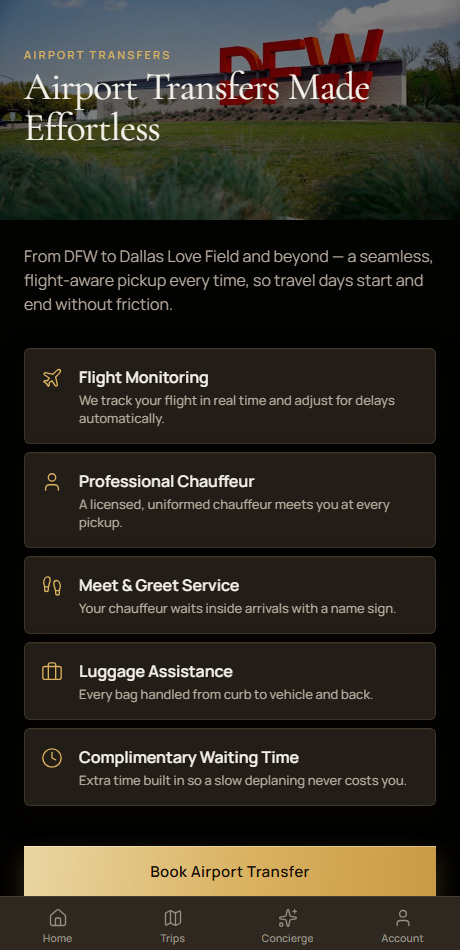
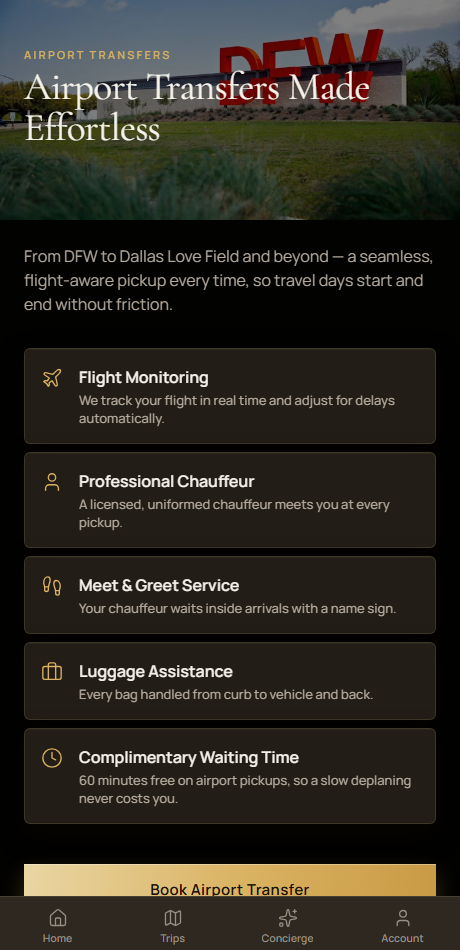
Complimentary wait time: the last blocked input, answered and rendering
30 minutes standard, 60 airport. Confirmed by the business, so the slot
built for it stops rendering nothing.

RESOLVED BY SERVICE TYPE, like the cancellation window beside it
  complimentaryWaitMinutesFor() / complimentaryWaitSentenceFor() mirror
  the cancellation resolver exactly. Verified on a real airport booking:
  the payment screen reads "Free cancellation until 6 hours before
  pickup" AND "60 minutes of complimentary wait time are included" —
  both correct for that service, neither generic.

  The wait line sits beside the price because it IS part of the price:
  it is the span in which waiting costs nothing.

airport.tsx — the claim COMPLETED, not removed
  It marketed "Complimentary Waiting Time" with no figure, and was
  deliberately left alone: a benefit stated without a number is not a
  fabricated number, and rewriting a client's marketing on our own
  judgement would have been the overreach. The number now exists, so the
  claim gets finished. It reads the figure from servicePolicy so the
  page cannot drift out of step with the booking flow, and it names
  AIRPORT PICKUPS explicitly — the window is double the standard one and
  nobody should carry 60 minutes away as a general promise.

DISPLAYABLE IS NOT ENFORCEABLE — recorded under C-4
  The app can STATE this policy because it is real. It can never BILL
  against it: there is no "arrived at pickup" status, so nothing marks
  when the clock starts, waiting_minutes and waiting_fare stay
[…]

Changed region(s): [[0.0304, 0.7937, 0.9435, 0.9463]]

diff --git a/src/config/servicePolicy.ts b/src/config/servicePolicy.ts
@@ -65,6 +65,28 @@ export function cancellationSentenceFor(serviceType: ServiceType | null): string
   return `Free cancellation until ${hours} ${hours === 1 ? 'hour' : 'hours'} before pickup.`;
 }
 
+/**
+ * The complimentary wait for the service actually being booked.
+ *
+ * Airport transfers get the longer window; everything else gets the standard
+ * one. Same shape as `freeCancellationHoursFor` — resolved per service rather
+ * than stated generically, because telling an airport customer "30 minutes"
+ * would be wrong by half.
+ */
+export function complimentaryWaitMinutesFor(serviceType: ServiceType | null): number | null {
+  if (serviceType === 'airport') return servicePolicy.complimentaryWaitMinutes.airport;
+  // 'custom' is quote-routed and has no published window of its own.
+  if (serviceType === null || serviceType === 'custom') return null;
+  return servicePolicy.complimentaryWaitMinutes.standard;
+}
+
+/** "60 minutes of complimentary wait time are included." Null renders nothing. */
+export function complimentaryWaitSentenceFor(serviceType: ServiceType | null): string | null {
+  const minutes = complimentaryWaitMinutesFor(serviceType);
+  if (minutes === null) return null;
+  return `${minutes} minutes of complimentary wait time are included.`;
+}
+
 export const servicePolicy = {
   freeCancellationHours,
 
@@ -83,29 +105,27 @@ export const servicePolicy = {
   dispatchPhone: '+1 (888) 615-4065' as string | null,
 
   /**
-   * STILL BLOCKED. Complimentary wait time included in the fare, in minutes.
+   * Complimentary wait time included in the fare, in minutes.
    *
-   * Searched the website source: it is not on the fleet page, the rates page,
-   * the cancellation policy or the FAQ. The FAQ covers flight monitoring and
-   * meet-and-greet but states no wait-time figure, and nothing else on the site
-   * mentions one.
+   * Confirmed by the business. The airport figure is double the standard one
+   * for the obvious reason: a delayed bag or a slow immigration queue is not
+   * something a passenger controls, and a chauffeur service that starts
+   * charging at the carousel is not one.
    *
-   * So it stays null and its slots render nothing.
+   * ── This is DISPLAYABLE, not ENFORCEABLE ────────────────────────────────
+   * The app can now STATE the policy, because it is real. It cannot BILL
+   * against it, because nothing marks the moment the clock starts: there is no
+   * "arrived at pickup" status in the trip enum, so `bookings.waiting_minutes`
+   * and `waiting_fare` — which exist, from migration 0015 — can never be
+   * filled correctly.
    *
-   * NOTE — `app/(app)/airport.tsx` markets "Complimentary Waiting Time" without
-   * a figure. That copy is LEFT AS IS, deliberately: it is the company's own
-   * pre-existing marketing, and a benefit stated without a number is not a
-   * fabricated number. Rewriting a client's marketing claim on our own judgement
-   * would be the overreach, not the restraint.
-   *
-   * The right response is to ask, not edit. Two questions, both on the
-   * business-inputs list in BACKEND_FOLLOWUPS.md:
-   *   1. What IS the complimentary waiting time, per service type?
-   *   2. Does the airport page's existing claim match it?
+   * So the business has a waiting policy it cannot charge for. That is now the
+   * strongest argument for gap C-4 in BACKEND_FOLLOWUPS.md, and it is recorded
+   * there rather than left as an inconsistency for someone to trip over.
    */
   complimentaryWaitMinutes: {
-    standard: null as number | null,
-    airport: null as number | null,
+    standard: 30 as number | null,
+    airport: 60 as number | null,
   },
 
   /**

diff --git a/app/(app)/book/payment.tsx b/app/(app)/book/payment.tsx
@@ -17,7 +17,7 @@ import { formatCurrency, formatDateTime, formatServiceType } from '../../../src/
 import { isStripeConfigured } from '../../../src/lib/env';
 import { useStripeCheckout } from '../../../src/lib/useStripeCheckout';
 import { AuthGate } from '../../../src/components/AuthGate';
-import { cancellationSentenceFor } from '../../../src/config/servicePolicy';
+import { cancellationSentenceFor, complimentaryWaitSentenceFor } from '../../../src/config/servicePolicy';
 import { isRTL } from '../../../src/i18n/rtl';
 
 /**
@@ -46,10 +46,19 @@ import { isRTL } from '../../../src/i18n/rtl';
  * was checking for exactly this was comparing the client's preview against the
  * client's own recomputation.
  *
- * ── The cancellation line ───────────────────────────────────────────────────
- * Renders only when `servicePolicy.freeCancellationWindowHours` is set. It is
- * null — a blocked business input — so nothing renders there. A cancellation
- * promise printed above a pay button is a commitment the business has not made.
+ * ── The policy lines ────────────────────────────────────────────────────────
+ * Two of them now, both resolved per service type: the free-cancellation window
+ * and the complimentary wait. This comment used to say they rendered nothing
+ * because the figures were blocked business inputs — they are answered, and
+ * they render.
+ *
+ * The rule that produced that blank is unchanged and still the right one: a
+ * promise printed above a pay button is a commitment, so it appears only when
+ * the business has actually made it. What changed is that they have.
+ *
+ * The wait line belongs beside a price because it IS part of the price — it is
+ * the span in which waiting costs nothing. Note that the app can STATE it and
+ * cannot BILL against it; see `servicePolicy` and BACKEND_FOLLOWUPS.md C-4.
  */
 export default function PaymentStep() {
   const router = useRouter();
@@ -348,6 +357,21 @@ export default function PaymentStep() {
           {cancellationSentenceFor(draft.serviceType) ? (
             <AppText variant="captionSm" center style={styles.policy}>
               {cancellationSentenceFor(draft.serviceType)}
+            </AppText>
+          ) : null}
+          {/*
+            The complimentary wait, resolved by service — 60 minutes on an
+            airport transfer, 30 otherwise. This slot rendered nothing for the
+            whole project because the figure was a blocked business input; it
+            now has a confirmed answer and states it.
+
+            It belongs beside a price the customer is about to authorise
+            because it IS part of the price: it is the span in which waiting
+            costs nothing.
+          */}
+          {complimentaryWaitSentenceFor(draft.serviceType) ? (
+            <AppText variant="captionSm" center style={styles.policy}>
+              {complimentaryWaitSentenceFor(draft.serviceType)}
             </AppText>
           ) : null}
         </AuthGate>

diff --git a/app/(app)/airport.tsx b/app/(app)/airport.tsx
@@ -8,13 +8,35 @@ import { AppText } from '../../src/components/ui/Typography';
 import { FadeSlideIn } from '../../src/components/ui/FadeSlideIn';
 import { colors, spacing } from '../../src/theme/tokens';
 import { useBookingFormStore } from '../../src/store/bookingFormStore';
+import { servicePolicy } from '../../src/config/servicePolicy';
 
 const FEATURES = [
   { icon: Plane, title: 'Flight Monitoring', desc: 'We track your flight in real time and adjust for delays automatically.' },
   { icon: User, title: 'Professional Chauffeur', desc: 'A licensed, uniformed chauffeur meets you at every pickup.' },
   { icon: Footprints, title: 'Meet & Greet Service', desc: 'Your chauffeur waits inside arrivals with a name sign.' },
   { icon: Briefcase, title: 'Luggage Assistance', desc: 'Every bag handled from curb to vehicle and back.' },
-  { icon: Clock, title: 'Complimentary Waiting Time', desc: 'Extra time built in so a slow deplaning never costs you.' },
+  {
+    icon: Clock,
+    title: 'Complimentary Waiting Time',
+    /*
+     * THE FIGURE, read from the policy rather than typed.
+     *
+     * This said "Extra time built in so a slow deplaning never costs you" —
+     * the company's own marketing, carrying a benefit with no number. It was
+     * deliberately left alone while the figure was an unanswered business
+     * input, because a benefit stated without a number is not a fabricated
+     * number, and rewriting a client's marketing on our own judgement would
+     * have been the overreach.
+     *
+     * The business has now confirmed it, so the claim gets completed rather
+     * than removed. It reads from `servicePolicy` so the page cannot drift
+     * out of step with the payment and confirmation screens, and it names
+     * AIRPORT PICKUPS explicitly — the window is double the standard one, and
+     * a reader on this page should not carry 60 minutes away as a
+     * general promise.
+     */
+    desc: `${servicePolicy.complimentaryWaitMinutes.airport} minutes free on airport pickups, so a slow deplaning never costs you.`,
+  },
 ];
 
 export default function AirportScreen() {

diff --git a/app/(app)/book/confirmed.tsx b/app/(app)/book/confirmed.tsx
@@ -20,7 +20,7 @@ import { bookingsApi } from '../../../src/api/bookings';
 import type { Booking } from '../../../src/types/api';
 import { formatCurrency, formatDateTime } from '../../../src/lib/format';
 import { useMotion } from '../../../src/lib/useMotion';
-import { cancellationSentenceFor } from '../../../src/config/servicePolicy';
+import { cancellationSentenceFor, complimentaryWaitSentenceFor } from '../../../src/config/servicePolicy';
 
 /**
  * CONFIRMED — the emotional peak, and previously the least designed screen in
@@ -206,6 +206,11 @@ export default function ConfirmedStep() {
         {cancellationSentenceFor(draft.serviceType) ? (
           <AppText variant="captionSm" center style={styles.policy}>
             {cancellationSentenceFor(draft.serviceType)}
+          </AppText>
+        ) : null}
+        {complimentaryWaitSentenceFor(draft.serviceType) ? (
+          <AppText variant="captionSm" center style={styles.policy}>
+            {complimentaryWaitSentenceFor(draft.serviceType)}
           </AppText>
         ) : null}
 

diff --git a/BACKEND_FOLLOWUPS.md b/BACKEND_FOLLOWUPS.md
@@ -356,9 +356,29 @@ completed`. `driver_arriving` means *en route*. There is no state between
    `waiting_fare` exist (`0015_booking_pricing_extensions.sql`) and default to
    zero. Nothing can start the clock, because the clock starts when the car
    arrives. **These columns are currently unfillable.**
-3. **The complimentary-wait policy is unenforceable.** See the Business inputs
-   table below — even once LCT answers what the free wait period is, there is no
-   event to measure it from.
+3. **THE BUSINESS HAS A WAITING POLICY IT CANNOT BILL AGAINST.** This is now the
+   strongest argument for building C-4, and it changed while this document was
+   being written.
+
+   The complimentary wait is no longer an open question. It is confirmed
+   published policy — **30 minutes on standard pickups, 60 on airport** — and
+   the app states it on the payment screen, the confirmation screen and the
+   airport page, resolved per service type.
+
+   So the promise is on screen and the mechanism behind it does not exist. The
+   app can **display** the policy because it is real; it can never **enforce**
+   it, because nothing marks the moment the clock starts. Concretely:
+
+   - a chauffeur who waits 90 minutes at DFW has 30 chargeable minutes, and
+     there is no way to record that a single one of them happened;
+   - `waiting_minutes` and `waiting_fare` stay zero on every booking forever;
+   - a customer disputing a wait charge cannot be shown when the car arrived,
+     because nobody can say.
+
+   Until C-4 lands, every minute of paid waiting time in the business is either
+   uncharged or charged outside the system. That is a revenue argument, not an
+   engineering preference, and it is a stronger case than the accessibility one
+   above.
 
 *What would change.* Add `driver_arrived` to the `trip_status` enum between
 `driver_arriving` and `passenger_picked_up`, and the corresponding edge in
@@ -886,16 +906,27 @@ app until it is answered.
 
 | # | Question | Where it lands |
 |---|---|---|
-| B1 | **What is the complimentary waiting time**, per service type (standard vs airport)? | `servicePolicy.complimentaryWaitMinutes` — the destination sheet's airport note and the confirmation screen |
-| B2 | **Does the Airport page's existing claim match it?** That page markets "Complimentary Waiting Time" with no figure. The copy has been left exactly as written — it is LCT's own marketing, and a benefit stated without a number is not a fabricated number. But it should not stay unquantified once B1 is answered. | `app/(app)/airport.tsx` |
 | B3 | **Who owns the rating figure, and how often is it refreshed?** Home shows "4.93 from 55 reviews", read by hand from the Clienity reputation dashboard on 2026-08-22 and frozen in a constant with its source and read-date. It is a SNAPSHOT: there is no reviews endpoint and no integration, so it will silently go stale. Either re-read it before each release, or expose it from the backend and delete the constant. | `src/config/reputation.ts` → `src/components/home/HomeView.tsx` |
 | B4 | **How late is late?** The dispatcher board must surface the problem row, and nothing defines what one is. Same threshold for an airport pickup as for a dinner reservation? Measured from the scheduled time or from the chauffeur's ETA? At what point does it escalate to a call? Until this is answered the board computes it client-side with a five-minute grace the preview invented. See §7 D-2. | the board query, once §7 D-1 exists |
 | B5 | **Is meet-and-greet a service the customer selects, and does it cost anything?** The chauffeur cannot be told to walk into the terminal because no booking says so. This is a pricing and packaging question before it is a column. See §7 C-3. | `bookings.meet_and_greet`, the airport booking flow |
 | B6 | **Does the late-night surcharge apply by PICKUP time, or if any part of the journey falls inside the window?** A 04:45 pickup running to 05:30 is inside the window at the kerb and outside it at the airport. This is the only part of the surcharge question still open — the timezone half is answered and specified in §8, not a question. | `isLateNight()` in both `pricing.ts` and `pricingPreview.ts` |
 
-Resolved since the first list: the free-cancellation window (published and
-tiered — 12h sedans and SUVs, 6h airport, 48h hourly and events) and the
-dispatch phone (+1 888 615-4065). Both now render.
+**All three of the originally blocked inputs are now answered**, and every one
+of them renders:
+
+- the free-cancellation window — published and tiered: 12h sedans and SUVs,
+  6h airport, 48h hourly and events
+- the dispatch phone — +1 888 615-4065
+- the complimentary wait — **30 minutes standard, 60 minutes airport**
+
+The questions remaining below are ones this project raised later, from the role
+preview and the fare-parity work. They are open, not blocked: nothing is waiting
+on them to render.
+
+> **The wait time is DISPLAYABLE but not ENFORCEABLE.** The app states the
+> policy because it is real; it cannot bill against it, because nothing marks
+> when the clock starts. See C-4 — that pairing is now the strongest argument
+> for building it.
 
 ---
 

diff --git a/DESIGN_CHANGELOG.md b/DESIGN_CHANGELOG.md
@@ -155,6 +155,44 @@ bug**: reverting that fix turns the suite red on exactly that endpoint.
 `ScreenContainer` and `AnimatedRoutePreview`. **Outstanding:** ~25 files, listed
 by the lint rule's own inverse — anything not in `MIGRATED_OFF_THE_SHIM`.
 
+## Service policy — all three blocked inputs are answered
+
+`freeCancellationHours`, `dispatchPhone` and now `complimentaryWaitMinutes`
+(**30 standard, 60 airport**) are real published policy. Every slot built for
+them and left rendering nothing now renders.
+
+The rule that produced those blanks is unchanged and was the right one: a
+promise printed above a pay button is a commitment, so it appears only when the
+business has actually made it. What changed is that they have.
+
+- The payment and confirmation screens state both windows, **resolved by service
+  type** — 60 minutes on an airport transfer, 30 on a point-to-point. The wait
+  line sits beside the price because it *is* part of the price: it is the span
+  in which waiting costs nothing.
+- `airport.tsx` markets "Complimentary Waiting Time". That claim was
+  deliberately left unquantified while the figure was unknown — a benefit stated
+  without a number is not a fabricated number, and rewriting a client's
+  marketing on our own judgement would have been the overreach. The number now
+  exists, so the claim is **completed rather than removed**, reads the figure
+  from `servicePolicy` so the page cannot drift out of step with the booking
+  flow, and names *airport pickups* explicitly so nobody carries 60 minutes away
+  as a general promise.
+
+### Displayable is not enforceable
+
+The honest half, and it should not get lost in the good news.
+
+The app can **state** the waiting policy, because it is real. It can never
+**enforce** it, because `BACKEND_FOLLOWUPS.md` C-4 still stands: there is no
+"arrived at pickup" status, so nothing marks when the clock starts,
+`bookings.waiting_minutes` and `waiting_fare` stay unfillable, and no waiting
+charge can be computed correctly.
+
+**The business now has a waiting policy it cannot bill against.** Every minute
+of paid waiting time is either uncharged or charged outside the system. That is
+recorded under C-4 as the strongest argument for building it — a revenue
+argument rather than an engineering preference.
+
 ## Screens
 
 *(Per-screen entries are compiled in the handover slice. Recorded here as work
